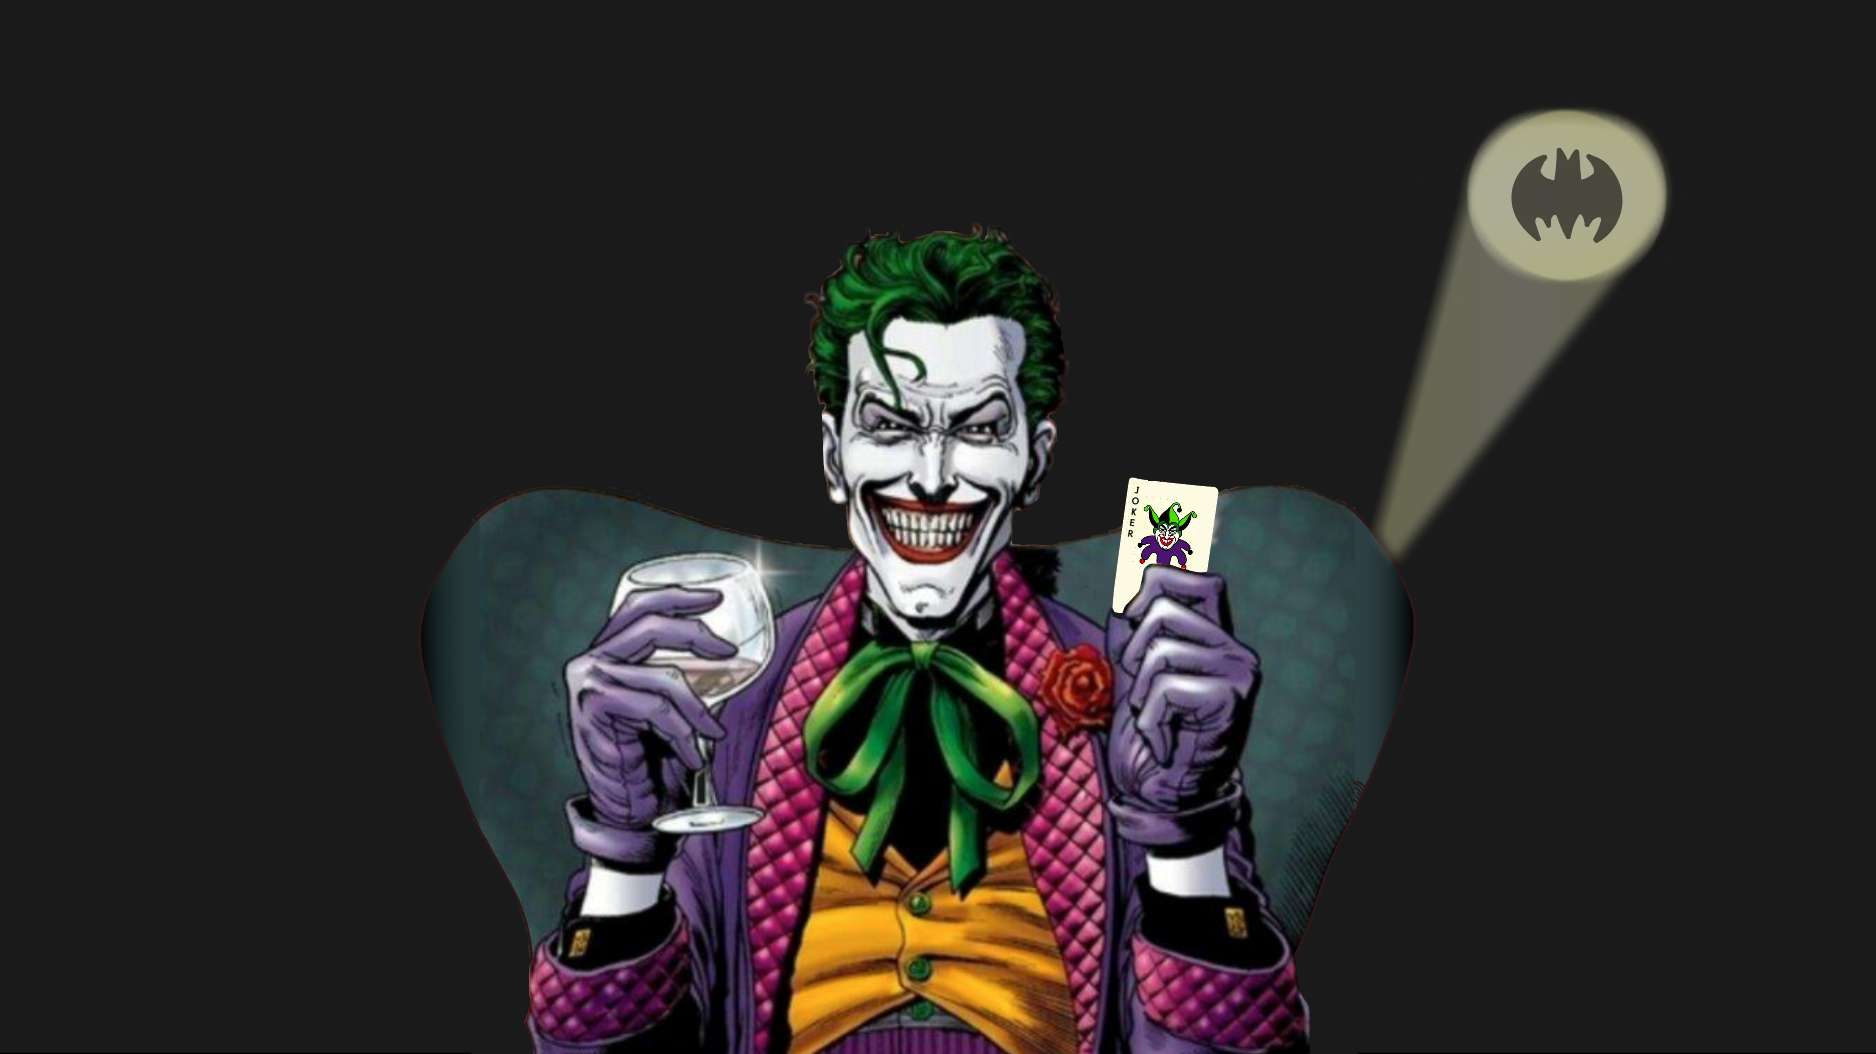
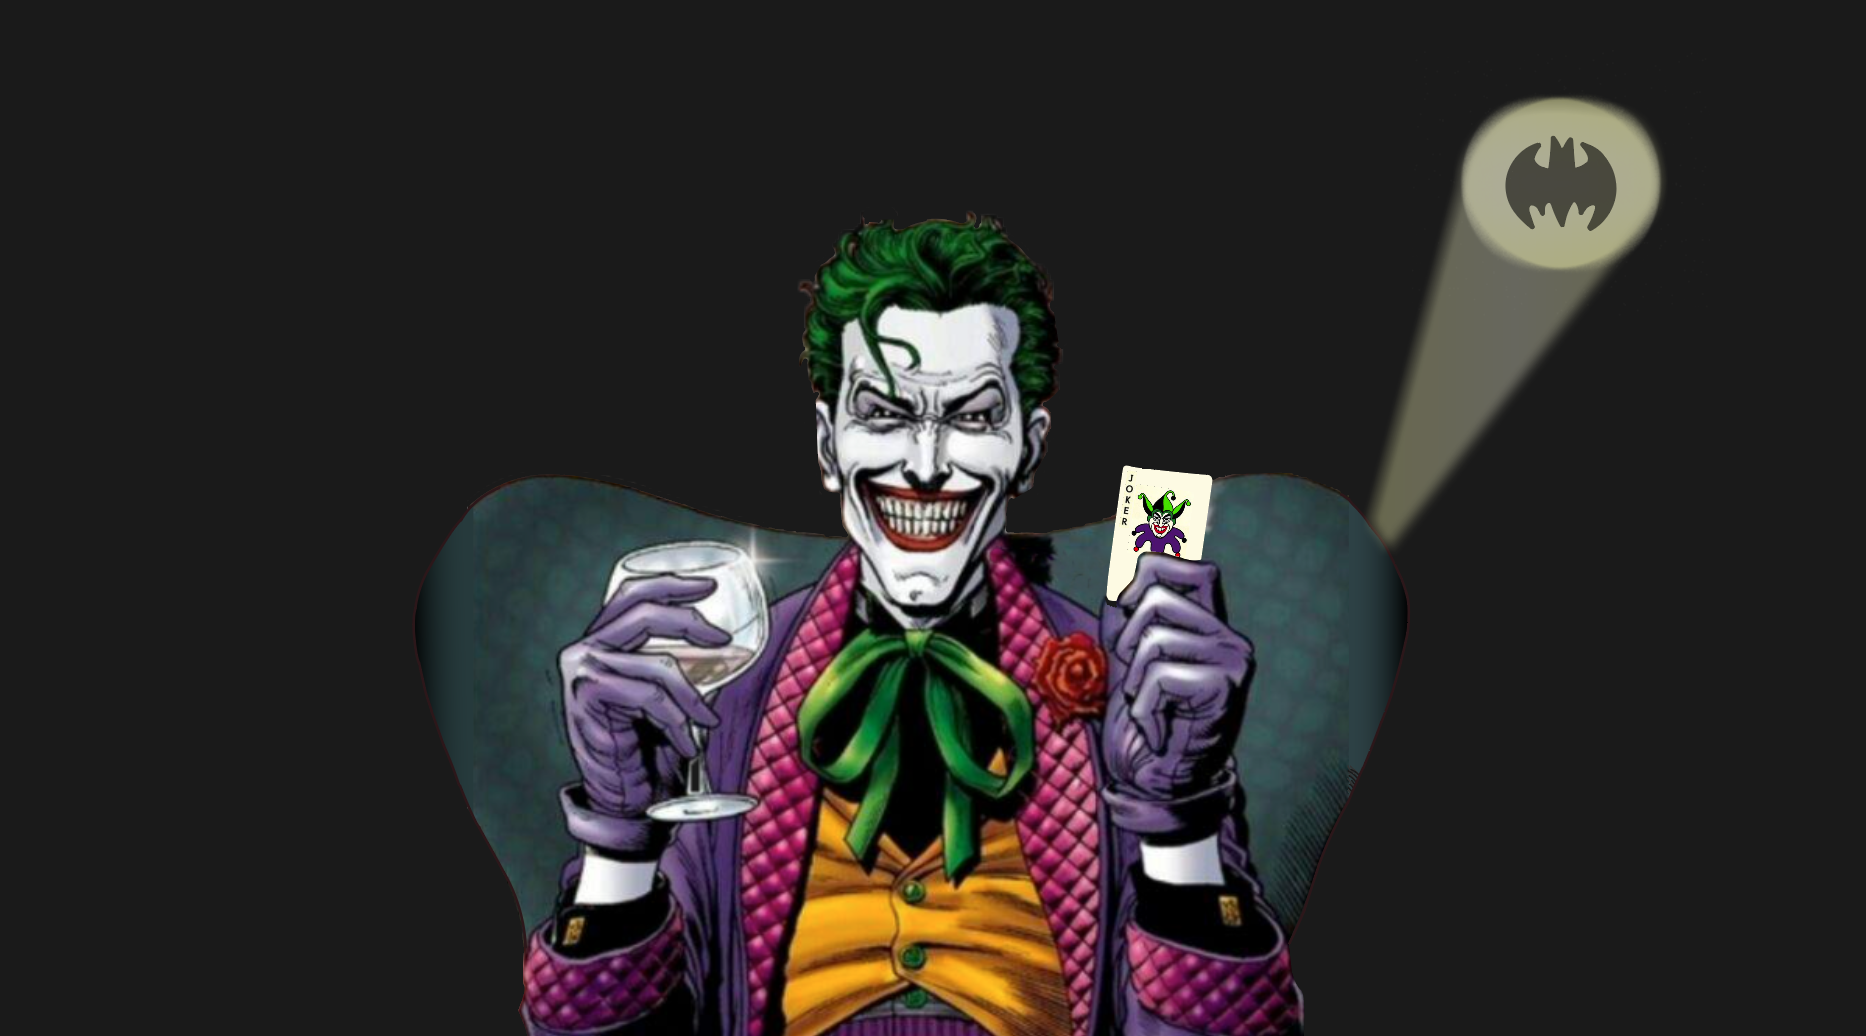
achtergrond

Changed region(s): [[0.2797, 0.1853, 0.7149, 1.0], [0.7771, 0.0927, 0.9014, 0.278], [0.2487, 0.4633, 0.2797, 0.4942]]

diff --git a/styles/style.css b/styles/style.css
@@ -31,6 +31,11 @@
   --color-kaarttafel:rgb(25, 95, 42);
   --color-cards:rgb(235, 223, 196);
   --color-tafelrand:rgb(238, 191, 120);
+  /* --color-achtergrondBody: rgb(26,26,26);  <-- rgb van achtergrond afbeelding*/
+  /* om de afbeelding en body achtergrond te matchen werkt niet met dezelfde
+  rgb code, dus moet ik de body rgb code iets verhogen, om het dezelfde kleur te geven. */
+  --color-achtergrondBody: rgb(34, 34, 34);
+  
 }
 
 
@@ -45,13 +50,17 @@ body {
   /* min-height:100vh;
   background-image: url('../images/achtergrondLang.png');
   background-repeat: none; */
-  background-color: rgb(27, 27, 27);
+  background-color: var(--color-achtergrondBody);
   cursor: url(/images/icons8-joker-dc-32.png) 15 10, pointer;
 }
 
 header {
   display: flex;
   justify-content: center;
+  background-image: url('../images/achtergrond.jpg');
+  min-height:100vh; /* getypt door Sanne */
+  background-size: contain;
+  background-repeat: none;
 }
 h1 {
   
@@ -61,18 +70,7 @@ h1 {
 
 }
 
- /* section:first-of-type {
-  background-image: url('/images/achtergrondLang.png'); 
- } */
-
 section:first-of-type {
-  min-height:90vh; /* getypt door Sanne */
-  background-size: contain;
-  background-image: url('../images/achtergrond.jpg');
-  
-}
-
-section:nth-of-type(2) {
   background-color: var(--color-kaarttafel);
   margin-left: 3em;
   margin-right: 3em;

diff --git a/index.html b/index.html
@@ -19,9 +19,6 @@
 	</header>
 
 	<main>
-	<section>
-
-	</section>
 		
 	<section>
 
